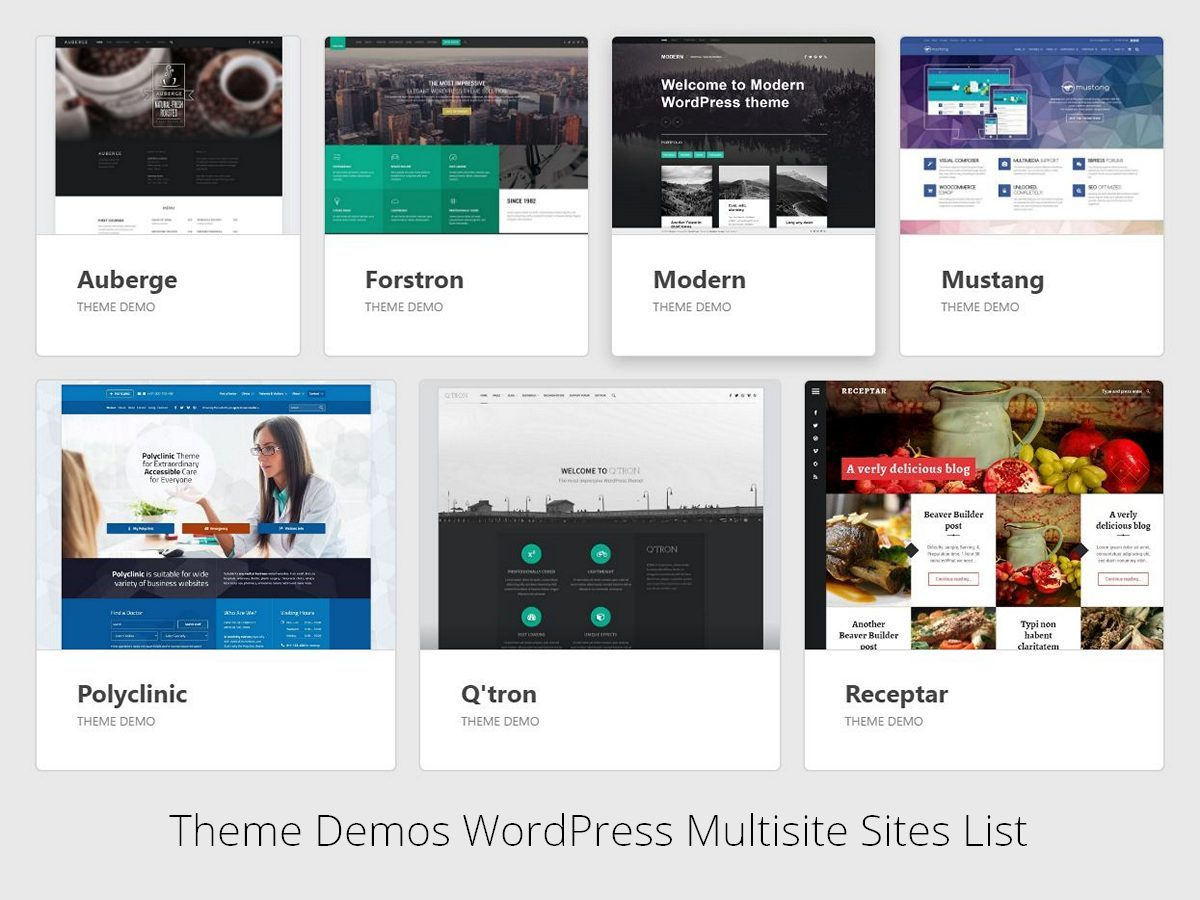
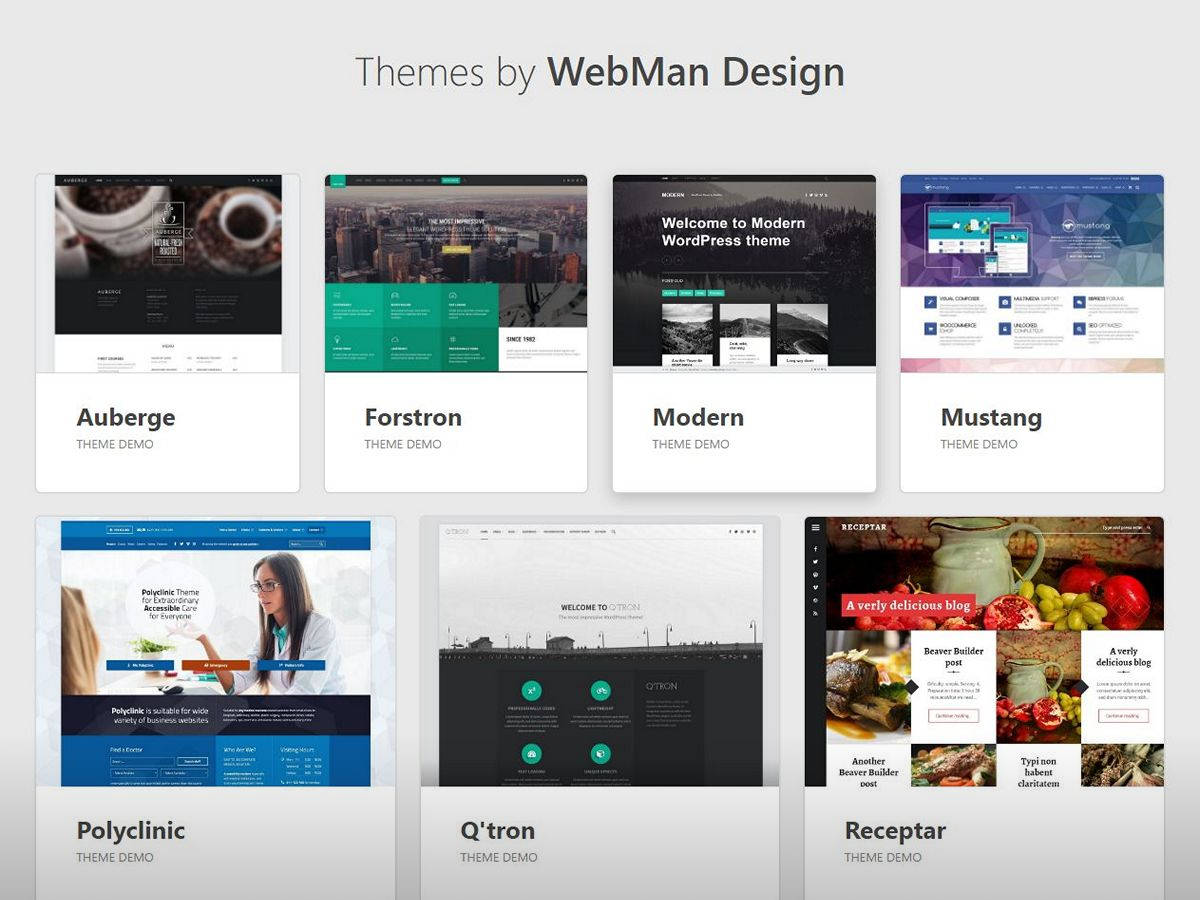
1.1

diff --git a/style.css b/style.css
@@ -2,8 +2,8 @@
  * Theme Name:   _Multisite Site List
  * Author:       WebMan Design
  * Author URI:   http://www.webmandesign.eu/
- * Version:      1.0
- * Description:  Lists all the sites on WordPress Multisite network. Specifically created for WebMan Design theme demo websites network.
+ * Version:      1.1
+ * Description:  Lists <strong>only public</strong> sites on WebMan Design theme demos WordPress Multisite network.
  * License:      GNU General Public License v3
  * License URI:  http://www.gnu.org/licenses/gpl-3.0.html
  *

diff --git a/style.scss b/style.scss
@@ -2,8 +2,8 @@
  * Theme Name:   _Multisite Site List
  * Author:       WebMan Design
  * Author URI:   http://www.webmandesign.eu/
- * Version:      1.0
- * Description:  Lists all the sites on WordPress Multisite network. Specifically created for WebMan Design theme demo websites network.
+ * Version:      1.1
+ * Description:  Lists <strong>only public</strong> sites on WebMan Design theme demos WordPress Multisite network.
  * License:      GNU General Public License v3
  * License URI:  http://www.gnu.org/licenses/gpl-3.0.html
  *

diff --git a/functions.php b/functions.php
@@ -6,7 +6,7 @@
  * @copyright  WebMan Design, Oliver Juhas
  *
  * @since    1.0
- * @version  1.0
+ * @version  1.1
  *
  * Contents:
  *
@@ -189,7 +189,7 @@ class SiteList {
 		 * List of sites
 		 *
 		 * @since    1.0
-		 * @version  1.0
+		 * @version  1.1
 		 */
 		public static function list() {
 
@@ -200,6 +200,7 @@ class SiteList {
 				$sites = get_sites( array(
 						'site__not_in' => array( 1 ),
 						'orderby'      => 'path',
+						'public'       => 1,
 					) );
 
 

diff --git a/changelog.md b/changelog.md
@@ -1,5 +1,19 @@
 # _Multisite Site List
 
+## 1.1
+
+* **Update**: Making sure we only display public sites
+* **Update**: Theme description text in stylesheet
+* **Update**: Screenshot
+
+#### Files changed:
+
+	changelog.md
+	functions.php
+	screenshot.jpg
+	style.scss
+	
+
 ## 1.0
 
 * Initial release.
